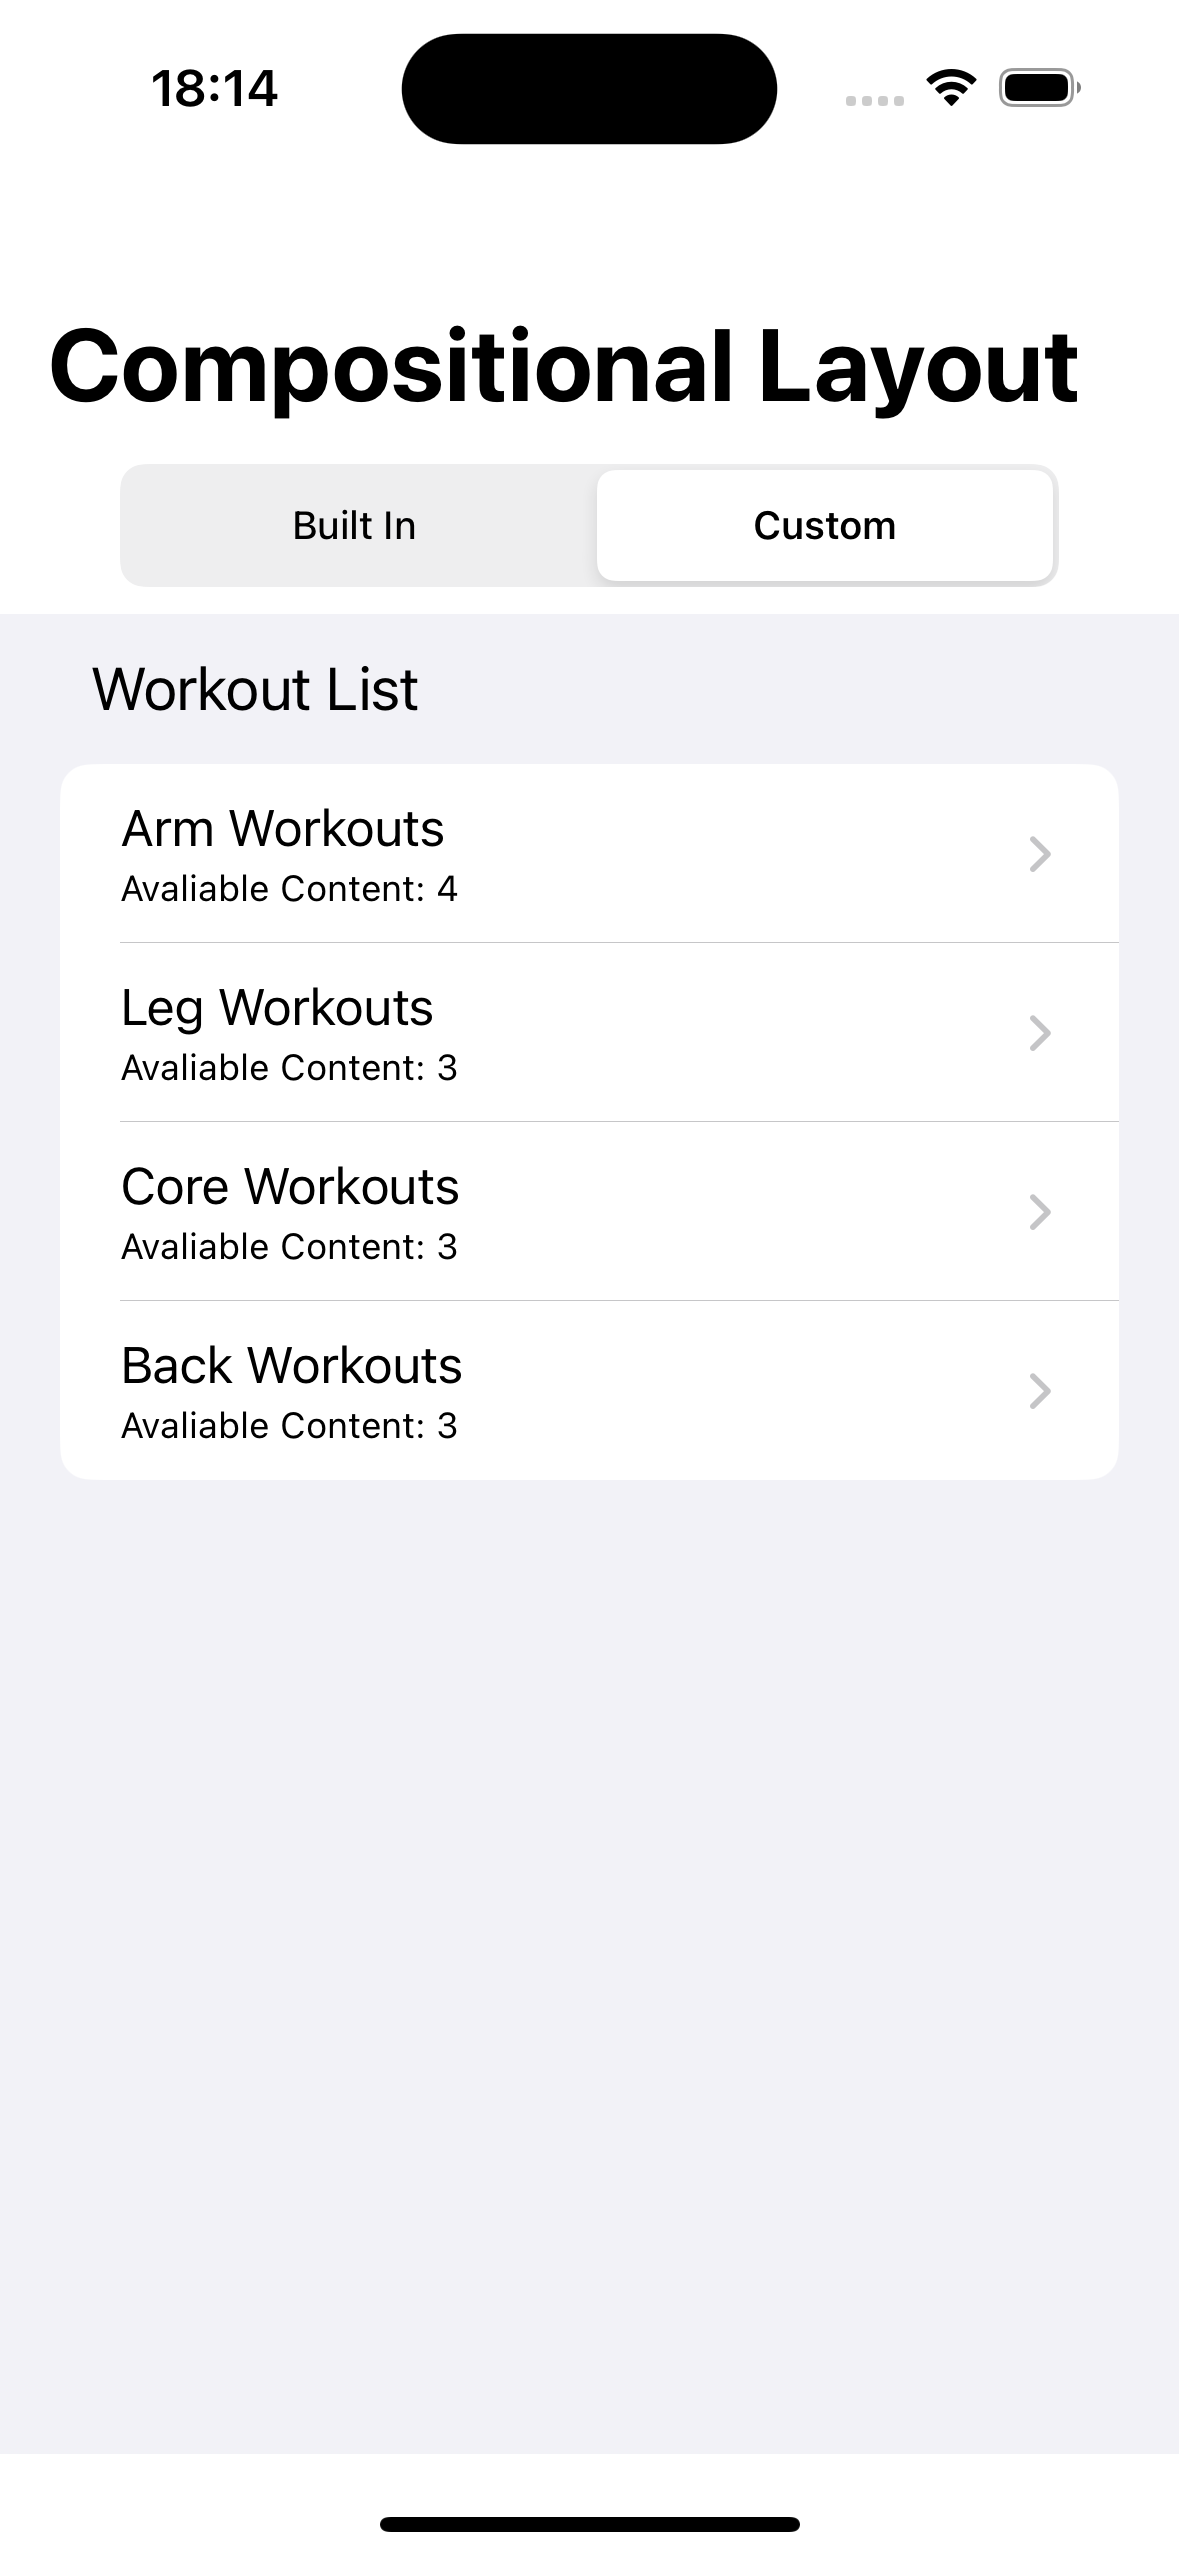
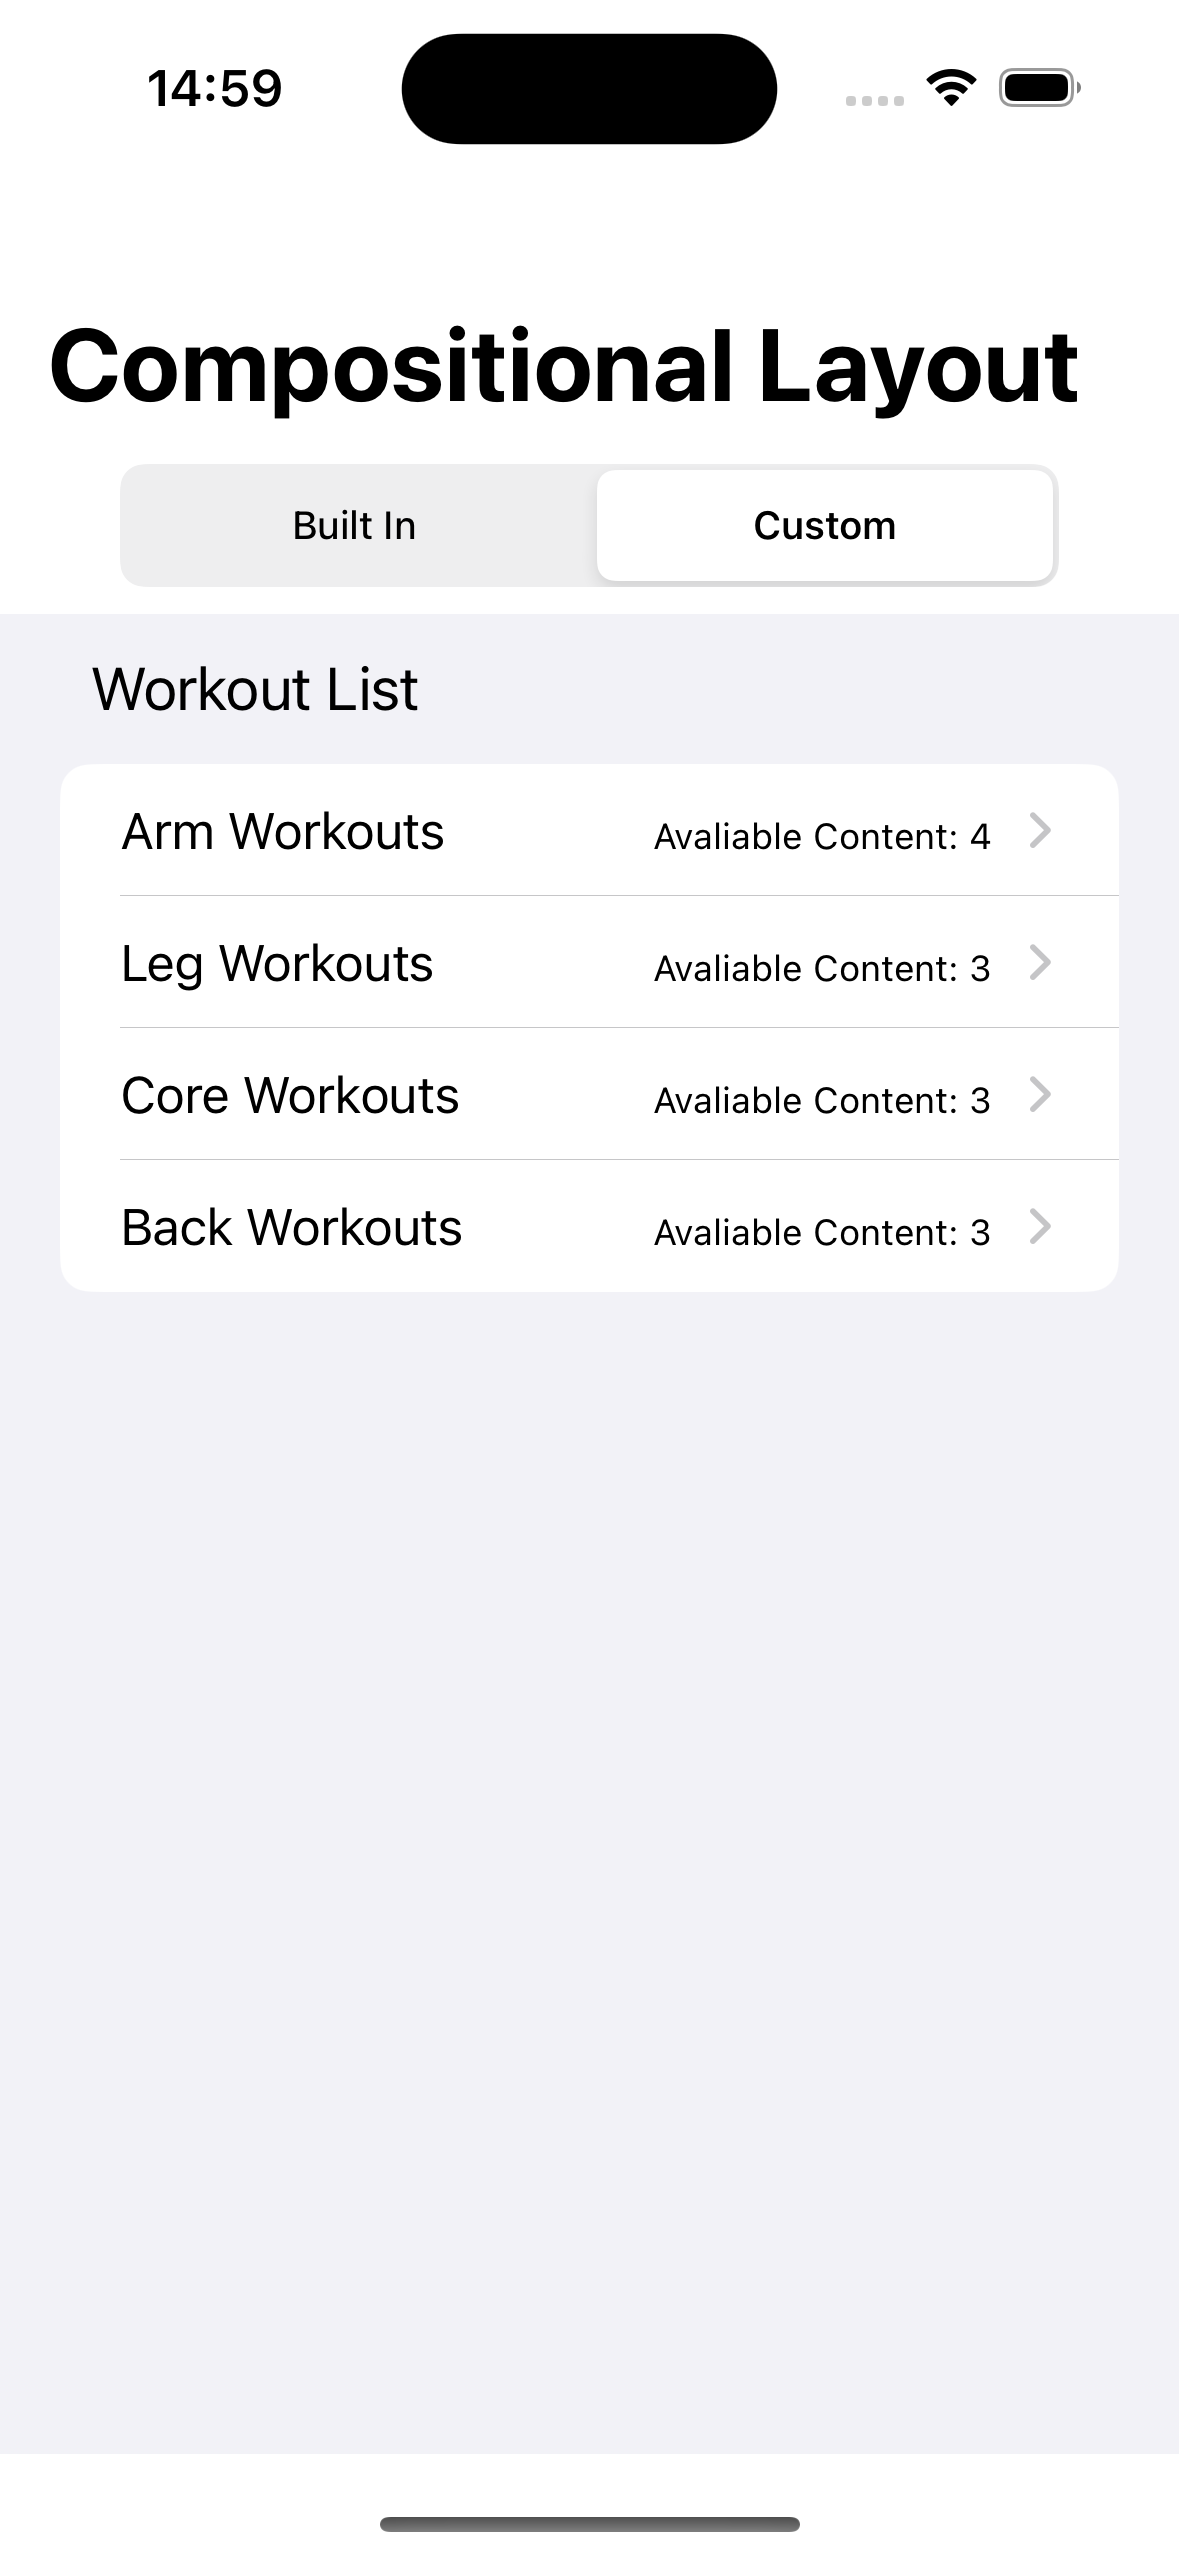
custom segment secondary text positioning changed.

diff --git a/CompositionalLayoutDemo/Controllers/CreateViewController.swift b/CompositionalLayoutDemo/Controllers/CreateViewController.swift
@@ -249,6 +249,7 @@ extension CreateViewController {
             var content = cell.defaultContentConfiguration()
             content.text = workoutItem.title
             content.secondaryText =  "Avaliable Content: " + String(describing: workoutItem.detail.count)
+            content.prefersSideBySideTextAndSecondaryText = true
             
             cell.contentConfiguration =  content
             cell.accessories = [.disclosureIndicator()]
